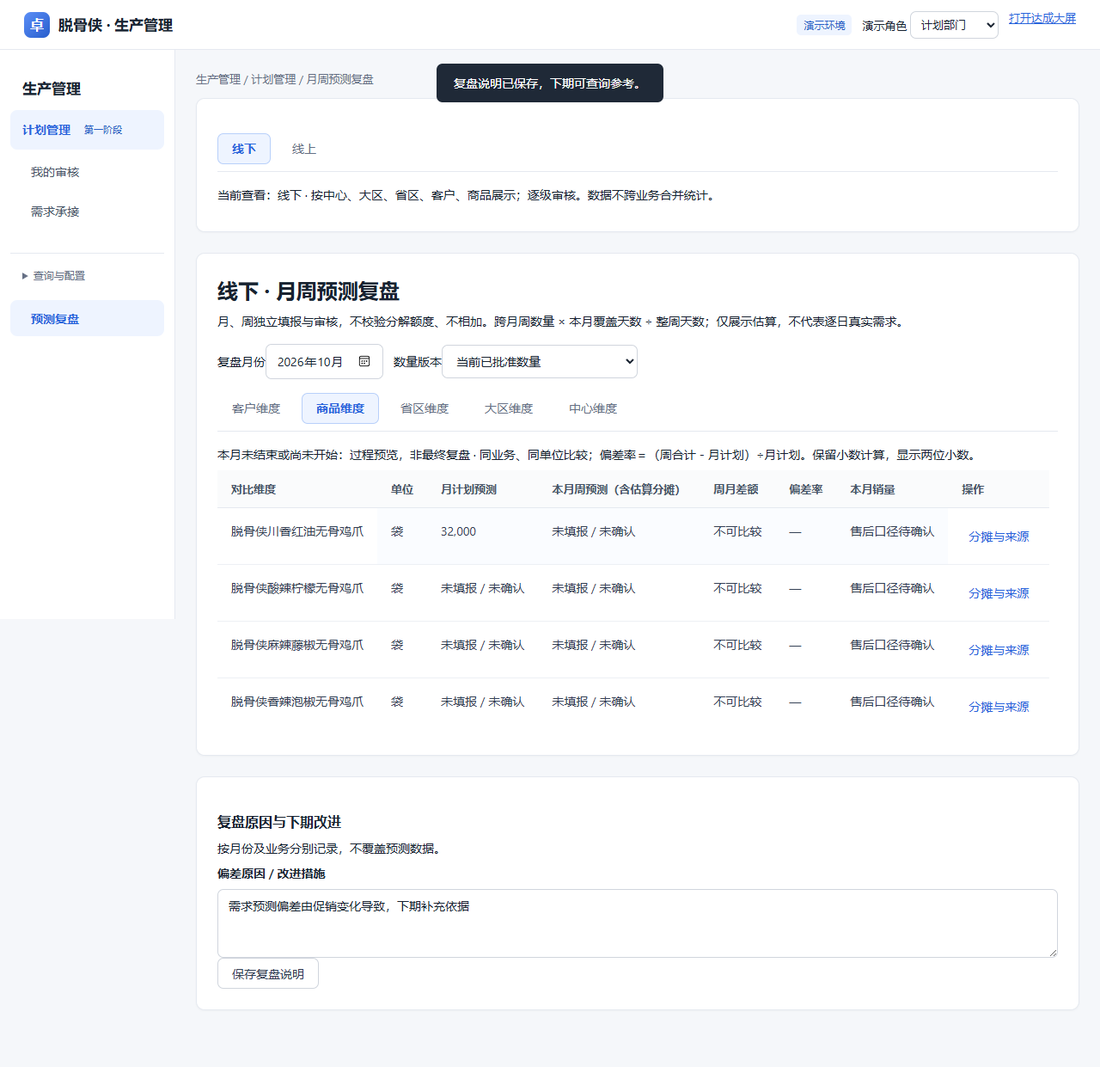
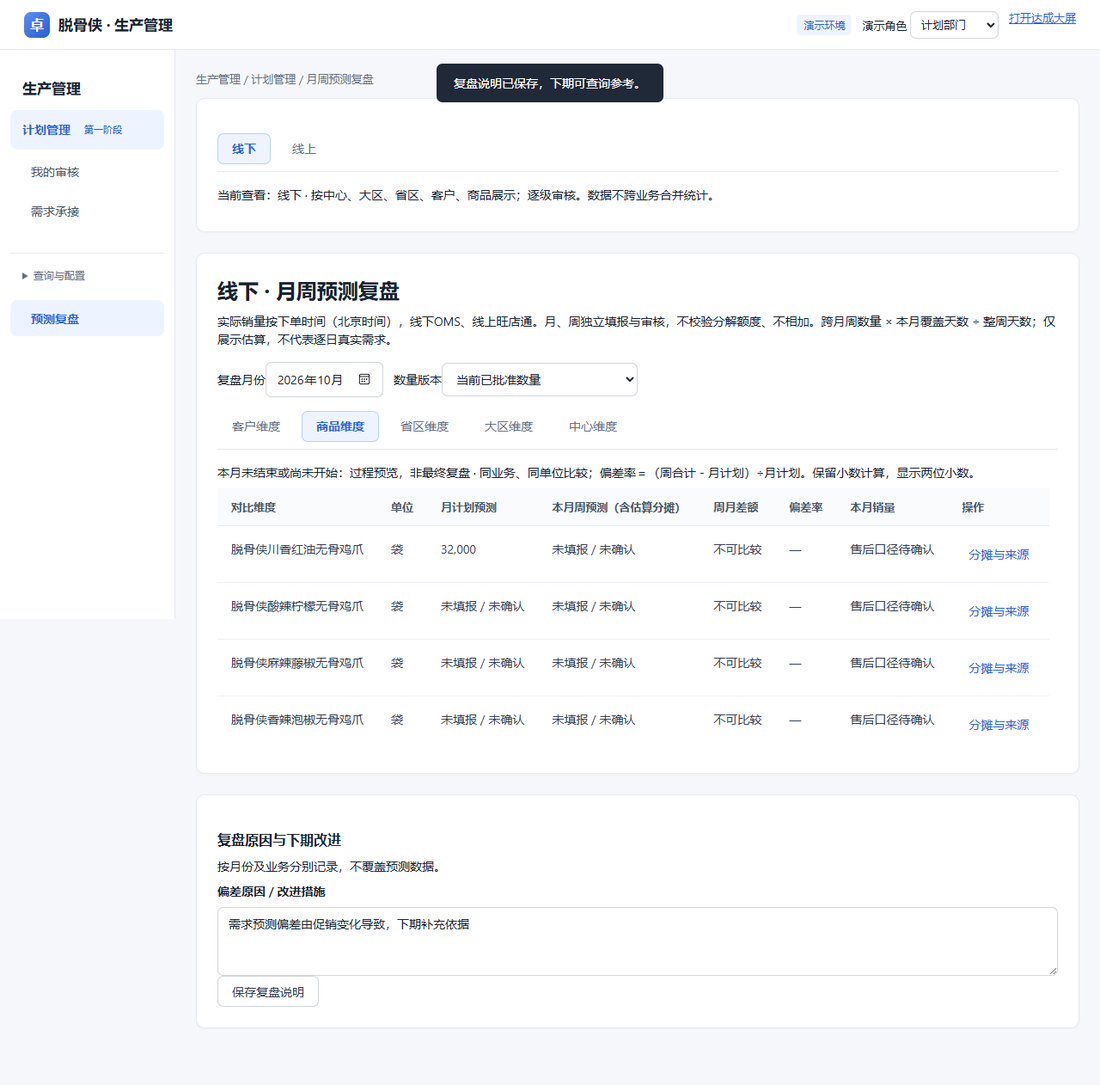
Auto sync 2026-10-12 17:00:13

diff --git a/09-设计与原型/销售计划管理/历史销售查询.js b/09-设计与原型/销售计划管理/历史销售查询.js
@@ -5,14 +5,14 @@
  const date=n=>n.toLocaleDateString('sv-SE');
  function period(start,type){const anchor=new Date((start||date(new Date()))+'T12:00:00'),end=new Date(anchor);let from=new Date(anchor);if(type==='week'){from.setDate(anchor.getDate()-7);end.setDate(anchor.getDate()-1);}else{end.setDate(0);from=new Date(end.getFullYear(),end.getMonth()-(type==='3'?2:0),1,12);}return {from:date(from),to:date(end)};}
  function mount(a,host,context={}){const d=a.data(),business=context.business||a.filters().business,dimensions=business==='online'?['product','channel']:['customer','product','province','area','center'],q={business,dimension:'product',...period(context.start,context.kind==='week'?'week':'month'),center:context.center||'all',area:context.area||'all',province:context.province||'all',customer:'all',channel:context.channel||'all',product:'all'};
-  const allowed=d.orders.filter(o=>o.business===business&&PlanBusiness.canView(d,a.role(),o));
+  const allowed=d.orders.filter(o=>SalesPlan.salesOrder(o)&&o.business===business&&PlanBusiness.canView(d,a.role(),o));
   const option=(xs,val)=>'<option value="all">全部</option>'+[...new Set([...xs,...(val&&val!=='all'?[val]:[])])].filter(Boolean).map(v=>`<option value="${E(v)}" ${v===val?'selected':''}>${E(v)}</option>`).join('');
-  host.innerHTML=`<h2>${business==='online'?'线上':'线下'} · 历史销售查询</h2><p>用于填报参考，不自动改写计划。当前为本机演示订单，真实销量尚未接入。不同单位分开统计；取消订单不计入有效销量，售后回冲规则未确认时不计算净销量。</p><div class="row filters"><label>参考区间<select data-history-preset><option value="month">上月</option><option value="week">上周</option><option value="3">近3个完整月</option><option value="custom">自定义</option></select></label><label>开始日期<input type="date" data-history="from" value="${q.from}"></label><label>结束日期<input type="date" data-history="to" value="${q.to}"></label></div><div class="row filters">${dimensions.map(k=>`<label>${labels[k]}<select data-history="${k}">${option([...new Set(allowed.map(o=>o[k]))].sort(),q[k])}</select></label>`).join('')}<button type="button" data-history-clear>清除范围</button></div><p class="muted">${business==='online'?'线上仅按商品、渠道查询与统计。':'组织、客户和商品筛选共同限定查询范围。'}上月 / 上周以${context.start?'当前计划开始日期':'今天'}为基准。</p><div class="summary-tabs" role="group" aria-label="历史销售统计维度">${dimensions.map(k=>`<button type="button" data-history-dimension="${k}" aria-pressed="${q.dimension===k}">${labels[k]}维度</button>`).join('')}</div><p data-history-error class="error" role="alert"></p><p data-history-range></p><div class="table-wrap"><table><thead><tr><th data-history-heading>商品</th><th>单位</th><th>订单数</th><th>有效订单数量</th><th>记录退货数量</th><th>净销量</th><th>操作</th></tr></thead><tbody data-history-rows></tbody></table></div><section data-history-detail hidden></section>`;
+  host.innerHTML=`<h2>${business==='online'?'线上':'线下'} · 历史销售查询</h2><p>按下单时间（北京时间）统计；线下来源OMS，线上来源旺店通。用于填报参考，不自动改写计划。当前为本机演示订单，真实销量尚未接入。不同单位分开统计；取消订单不计入有效销量，售后回冲规则未确认时不计算净销量。</p><div class="row filters"><label>参考区间<select data-history-preset><option value="month">上月</option><option value="week">上周</option><option value="3">近3个完整月</option><option value="custom">自定义</option></select></label><label>开始日期<input type="date" data-history="from" value="${q.from}"></label><label>结束日期<input type="date" data-history="to" value="${q.to}"></label></div><div class="row filters">${dimensions.map(k=>`<label>${labels[k]}<select data-history="${k}">${option([...new Set(allowed.map(o=>o[k]))].sort(),q[k])}</select></label>`).join('')}<button type="button" data-history-clear>清除范围</button></div><p class="muted">${business==='online'?'线上仅按商品、渠道查询与统计。':'组织、客户和商品筛选共同限定查询范围。'}上月 / 上周以${context.start?'当前计划开始日期':'今天'}为基准。</p><div class="summary-tabs" role="group" aria-label="历史销售统计维度">${dimensions.map(k=>`<button type="button" data-history-dimension="${k}" aria-pressed="${q.dimension===k}">${labels[k]}维度</button>`).join('')}</div><p data-history-error class="error" role="alert"></p><p data-history-range></p><div class="table-wrap"><table><thead><tr><th data-history-heading>商品</th><th>单位</th><th>订单数</th><th>有效订单数量</th><th>记录退货数量</th><th>净销量</th><th>操作</th></tr></thead><tbody data-history-rows></tbody></table></div><section data-history-detail hidden></section>`;
   host.querySelector('[data-history-preset]').value=context.kind==='week'?'week':'month';
-  function paint(){const err=host.querySelector('[data-history-error]');err.textContent=!q.from||!q.to||q.from>q.to?'请填写有效的日期区间，结束日期不能早于开始日期。':'';const orders=err.textContent?[]:allowed.filter(o=>o.date>=q.from&&o.date<=q.to&&dimensions.every(k=>q[k]==='all'||o[k]===q[k]));const groups=new Map();orders.forEach(o=>{const value=o[q.dimension]||'未维护'+labels[q.dimension],key=JSON.stringify([value,o.unit]),g=groups.get(key)||{value,unit:o.unit,orders:[],qty:0,returns:0};g.orders.push(o);if(o.status!=='取消'){g.qty+=Number(o.qty)||0;g.returns+=Number(o.returned)||0;}groups.set(key,g);});host.querySelector('[data-history-heading]').textContent=labels[q.dimension];host.querySelector('[data-history-range]').textContent=`查询范围：${q.from} 至 ${q.to} · ${business==='online'?'线上':'线下'} · ${orders.length} 条已同步订单记录（不代表数据完整）`;
+  function paint(){const err=host.querySelector('[data-history-error]');err.textContent=!q.from||!q.to||q.from>q.to?'请填写有效的日期区间，结束日期不能早于开始日期。':'';const orders=err.textContent?[]:allowed.filter(o=>SalesPlan.orderDay(o)>=q.from&&SalesPlan.orderDay(o)<=q.to&&dimensions.every(k=>q[k]==='all'||o[k]===q[k]));const groups=new Map();orders.forEach(o=>{const value=o[q.dimension]||'未维护'+labels[q.dimension],key=JSON.stringify([value,o.unit]),g=groups.get(key)||{value,unit:o.unit,orders:[],qty:0,returns:0};g.orders.push(o);if(o.status!=='取消'){g.qty+=Number(o.qty)||0;g.returns+=Number(o.returned)||0;}groups.set(key,g);});host.querySelector('[data-history-heading]').textContent=labels[q.dimension];host.querySelector('[data-history-range]').textContent=`查询范围：${q.from} 至 ${q.to} · ${business==='online'?'线上':'线下'} · ${orders.length} 条已同步订单记录（不代表数据完整）`;
    host.querySelectorAll('[data-history-dimension]').forEach(b=>b.setAttribute('aria-pressed',String(b.dataset.historyDimension===q.dimension)));
    host.querySelector('[data-history-rows]').innerHTML=[...groups.values()].map((g,i)=>`<tr><td>${E(q.dimension==='product'?(d.products.find(p=>p.id===g.value)?.name||g.value):g.value)}</td><td>${E(g.unit)}</td><td>${g.orders.length}</td><td>${g.qty}</td><td>${g.returns}</td><td>${d.rules.returns==='net'?g.qty-g.returns:d.rules.returns==='gross'?g.qty+'（不回冲退货）':'售后回冲规则待确认'}</td><td><button type="button" data-history-source="${i}">订单明细</button></td></tr>`).join('')||'<tr><td colspan="7" class="empty">此范围没有同步销售记录，不代表销量为零。请调整区间或筛选，或核对数据同步。</td></tr>';
-   const detail=host.querySelector('[data-history-detail]');detail.hidden=true;host.querySelectorAll('[data-history-source]').forEach(b=>b.onclick=()=>{const g=[...groups.values()][Number(b.dataset.historySource)];detail.hidden=false;detail.innerHTML='<h3>销售订单来源明细</h3><button type="button" data-history-back>收起明细</button><div class="table-wrap"><table><thead><tr><th>订单 / 来源</th><th>日期</th>'+(business==='online'?'<th>渠道</th>':'<th>客户</th><th>中心 / 大区 / 省区</th>')+'<th>商品</th><th>原始数量</th><th>退货</th><th>状态</th></tr></thead><tbody>'+g.orders.map(o=>`<tr><td>${E(o.id)} / ${E(o.source)}</td><td>${E(o.date)}</td>${business==='online'?`<td>${E(o.channel||'渠道未维护')}</td>`:`<td>${E(o.customer||'客户未维护')}</td><td>${E([o.center,o.area,o.province].filter(Boolean).join(' / ')||'组织未维护')}</td>`}<td>${E(d.products.find(p=>p.id===o.product)?.name||o.product)}</td><td>${E(o.qty)} ${E(o.unit)}</td><td>${E(o.returned)}</td><td>${E(o.status)}</td></tr>`).join('')+'</tbody></table></div>';detail.querySelector('[data-history-back]').onclick=()=>{detail.hidden=true;b.focus();};});
+   const detail=host.querySelector('[data-history-detail]');detail.hidden=true;host.querySelectorAll('[data-history-source]').forEach(b=>b.onclick=()=>{const g=[...groups.values()][Number(b.dataset.historySource)];detail.hidden=false;detail.innerHTML='<h3>销售订单来源明细</h3><button type="button" data-history-back>收起明细</button><div class="table-wrap"><table><thead><tr><th>订单 / 来源</th><th>下单日期（北京时间）</th>'+(business==='online'?'<th>渠道</th>':'<th>客户</th><th>中心 / 大区 / 省区</th>')+'<th>商品</th><th>原始数量</th><th>退货</th><th>状态</th></tr></thead><tbody>'+g.orders.map(o=>`<tr><td>${E(o.id)} / ${E(o.source)}</td><td>${E(SalesPlan.orderDay(o))}</td>${business==='online'?`<td>${E(o.channel||'渠道未维护')}</td>`:`<td>${E(o.customer||'客户未维护')}</td><td>${E([o.center,o.area,o.province].filter(Boolean).join(' / ')||'组织未维护')}</td>`}<td>${E(d.products.find(p=>p.id===o.product)?.name||o.product)}</td><td>${E(o.qty)} ${E(o.unit)}</td><td>${E(o.returned)}</td><td>${E(o.status)}</td></tr>`).join('')+'</tbody></table></div>';detail.querySelector('[data-history-back]').onclick=()=>{detail.hidden=true;b.focus();};});
   }
   host.querySelectorAll('[data-history]').forEach(el=>el.onchange=()=>{q[el.dataset.history]=el.value;if(['from','to'].includes(el.dataset.history))host.querySelector('[data-history-preset]').value='custom';paint();});host.querySelector('[data-history-preset]').onchange=e=>{if(e.target.value!=='custom'){Object.assign(q,period(context.start,e.target.value));for(const k of ['from','to'])host.querySelector(`[data-history="${k}"]`).value=q[k];paint();}};host.querySelector('[data-history-clear]').onclick=()=>{for(const k of dimensions){q[k]='all';host.querySelector(`[data-history="${k}"]`).value='all';}paint();};host.querySelectorAll('[data-history-dimension]').forEach(b=>b.onclick=()=>{q.dimension=b.dataset.historyDimension;paint();});paint();
  }

diff --git a/09-设计与原型/销售计划管理/月周预测复盘.js b/09-设计与原型/销售计划管理/月周预测复盘.js
@@ -2,10 +2,10 @@
  const E=v=>String(v??'').replace(/[&<>"']/g,c=>({'&':'&amp;','<':'&lt;','>':'&gt;','"':'&quot;',"'":'&#39;'}[c]));
  const day=s=>Date.parse(s+'T00:00:00Z')/86400000;
  function share(p,month){const start=day(month+'-01'),end=Date.UTC(Number(month.slice(0,4)),Number(month.slice(5,7)),0)/86400000;const total=day(p.end)-day(p.start)+1,overlap=Math.max(0,Math.min(day(p.end),end)-Math.max(day(p.start),start)+1);return total>0?overlap/total:0;}
- function groups(d,role,business,month,dimension,basis='approved'){const map=new Map(),key=p=>JSON.stringify([p[dimension]||'未维护',p.unit]),get=p=>{const k=key(p);if(!map.has(k))map.set(k,{name:p[dimension]||'未维护',unit:p.unit,monthly:0,weekly:0,months:[],weeks:[],orders:[],actual:0});return map.get(k);};d.plans.filter(p=>p.business===business&&PlanBusiness.canView(d,role,p)&&!p.rejected&&p.stage>=SalesPlan.chain(p).length).forEach(p=>{const fraction=p.kind==='month'?(p.start.slice(0,7)===month?1:0):share(p,month);if(!fraction)return;const g=get(p),qty=basis==='original'?(p.versions?.[0]?.qty??p.qty):p.qty;if(p.kind==='month'){g.monthly+=qty;g.months.push(p);}else{g.weekly+=qty*fraction;g.weeks.push({p,fraction,qty});}});d.orders.filter(o=>o.business===business&&PlanBusiness.canView(d,role,o)&&o.date.slice(0,7)===month).forEach(o=>{const g=get(o);g.orders.push(o);if(o.status!=='取消')g.actual+=Number(o.qty)-(d.rules.returns==='net'?Number(o.returned||0):0);});return [...map.values()];}
+ function groups(d,role,business,month,dimension,basis='approved'){const map=new Map(),key=p=>JSON.stringify([p[dimension]||'未维护',p.unit]),get=p=>{const k=key(p);if(!map.has(k))map.set(k,{name:p[dimension]||'未维护',unit:p.unit,monthly:0,weekly:0,months:[],weeks:[],orders:[],actual:0});return map.get(k);};d.plans.filter(p=>p.business===business&&PlanBusiness.canView(d,role,p)&&!p.rejected&&p.stage>=SalesPlan.chain(p).length).forEach(p=>{const fraction=p.kind==='month'?(p.start.slice(0,7)===month?1:0):share(p,month);if(!fraction)return;const g=get(p),qty=basis==='original'?(p.versions?.[0]?.qty??p.qty):p.qty;if(p.kind==='month'){g.monthly+=qty;g.months.push(p);}else{g.weekly+=qty*fraction;g.weeks.push({p,fraction,qty});}});d.orders.filter(o=>SalesPlan.salesOrder(o)&&o.business===business&&PlanBusiness.canView(d,role,o)&&SalesPlan.orderDay(o).slice(0,7)===month).forEach(o=>{const g=get(o);g.orders.push(o);if(o.status!=='取消')g.actual+=Number(o.qty)-(d.rules.returns==='net'?Number(o.returned||0):0);});return [...map.values()];}
  const fmt=n=>Number(n).toLocaleString('zh-CN',{maximumFractionDigits:2});
  function table(d,gs){return '<div class="table-wrap"><table><thead><tr><th>对比维度</th><th>单位</th><th>月计划预测</th><th>本月周预测（含估算分摊）</th><th>周月差额</th><th>偏差率</th><th>本月销量</th><th>操作</th></tr></thead><tbody>'+gs.map((g,i)=>{const comparable=g.months.length&&g.weeks.length;return `<tr><td>${E(d.products.find(p=>p.id===g.name)?.name||g.name)}</td><td>${E(g.unit)}</td><td>${g.months.length?fmt(g.monthly):'未填报 / 未确认'}</td><td>${g.weeks.length?fmt(g.weekly):'未填报 / 未确认'}</td><td>${comparable?fmt(g.weekly-g.monthly):'不可比较'}</td><td>${comparable&&g.monthly?fmt((g.weekly-g.monthly)/g.monthly*100)+'%':'—'}</td><td>${!g.orders.length?'无同步记录':d.rules.returns==='pending'?'售后口径待确认':fmt(g.actual)+(d.rules.returns==='gross'?'（不回冲）':'')}</td><td><button data-recap-source="${i}">分摊与来源</button></td></tr>`;}).join('')+' '+(!gs.length?'<tr><td colspan="8" class="empty">当前月份暂无已确认计划或销售记录，请选择其他月份。</td></tr>':'')+'</tbody></table></div>';}
- function mount(a,host,month){let dimension='product',basis='approved';const d=a.data(),f=a.filters();host.innerHTML=`<h1>月周预测复盘</h1><p>月、周独立填报与审核，不校验分解额度、不相加。跨月周数量 × 本月覆盖天数 ÷ 整周天数；仅展示估算，不代表逐日真实需求。</p><div class="row"><label>复盘月份<input id="recapMonth" type="month" value="${E(month)}"></label><label>数量版本<select id="recapBasis"><option value="approved">当前已批准数量</option><option value="original">原始填报数量（已确认计划）</option></select></label></div><div class="summary-tabs" role="group">${(f.business==='online'?['product','channel']:['customer','product','province','area','center']).map(k=>`<button data-recap-dimension="${k}" aria-pressed="${dimension===k}">${({customer:'客户',product:'商品',province:'省区',area:'大区',center:'中心',channel:'渠道'})[k]}维度</button>`).join('')}</div><p id="recapStatus"></p><div id="recapTable"></div>`;
+ function mount(a,host,month){let dimension='product',basis='approved';const d=a.data(),f=a.filters();host.innerHTML=`<h1>月周预测复盘</h1><p>实际销量按下单时间（北京时间），线下OMS、线上旺店通。月、周独立填报与审核，不校验分解额度、不相加。跨月周数量 × 本月覆盖天数 ÷ 整周天数；仅展示估算，不代表逐日真实需求。</p><div class="row"><label>复盘月份<input id="recapMonth" type="month" value="${E(month)}"></label><label>数量版本<select id="recapBasis"><option value="approved">当前已批准数量</option><option value="original">原始填报数量（已确认计划）</option></select></label></div><div class="summary-tabs" role="group">${(f.business==='online'?['product','channel']:['customer','product','province','area','center']).map(k=>`<button data-recap-dimension="${k}" aria-pressed="${dimension===k}">${({customer:'客户',product:'商品',province:'省区',area:'大区',center:'中心',channel:'渠道'})[k]}维度</button>`).join('')}</div><p id="recapStatus"></p><div id="recapTable"></div>`;
   const paint=()=>{const month=host.querySelector('#recapMonth').value;if(!/^\d{4}-\d{2}$/.test(month)){host.querySelector('#recapTable').textContent='请选择有效月份。';return;}const now=new Intl.DateTimeFormat('sv-SE',{timeZone:'Asia/Shanghai'}).format(new Date()).slice(0,7);host.querySelector('#recapStatus').textContent=(month<now?'已结束月份复盘':'本月未结束或尚未开始：过程预览，非最终复盘')+' · 同业务、同单位比较；偏差率＝（周合计－月计划）÷月计划。保留小数计算，显示两位小数。';const gs=groups(d,a.role(),f.business,month,dimension,basis);host.querySelectorAll('[data-recap-dimension]').forEach(b=>b.setAttribute('aria-pressed',String(b.dataset.recapDimension===dimension)));host.querySelector('#recapTable').innerHTML=table(d,gs);host.querySelectorAll('[data-recap-source]').forEach(b=>b.onclick=()=>{const g=gs[Number(b.dataset.recapSource)];a.modal('月周预测 · 分摊来源',`<p>${E(month)} · ${E(g.name)} · ${E(g.unit)}。分摊为估算，不修改原计划。</p><div class="table-wrap"><table><thead><tr><th>周计划</th><th>周期</th><th>整周预测</th><th>本月覆盖 / 周天数</th><th>本月分摊</th></tr></thead><tbody>${g.weeks.map(w=>`<tr><td>${E(w.p.id)}</td><td>${w.p.start} 至 ${w.p.end}</td><td>${w.qty}</td><td>${Math.round(w.fraction*(day(w.p.end)-day(w.p.start)+1))} / ${day(w.p.end)-day(w.p.start)+1}</td><td>${fmt(w.qty*w.fraction)}（估算）</td></tr>`).join('')||'<tr><td colspan="5">无已确认周计划</td></tr>'}</tbody></table></div><h3>计划版本与审核记录</h3>${a.planTable([...g.months,...g.weeks.map(w=>w.p)])}`);});};host.querySelector('#recapMonth').onchange=paint;host.querySelector('#recapBasis').onchange=e=>{basis=e.target.value;paint();};host.querySelectorAll('[data-recap-dimension]').forEach(b=>b.onclick=()=>{dimension=b.dataset.recapDimension;paint();});paint();
  }
  function decorate(a){if(document.body.dataset.page==='screen')return;const b=document.createElement('button');b.textContent='月周预测复盘';b.onclick=()=>a.setView('monthRecap');b.setAttribute('aria-current',String(a.view()==='monthRecap'));document.querySelector('nav').append(b);if(a.view()==='monthRecap'){document.getElementById('content').innerHTML='<section class="card" id="monthRecap"></section>';mount(a,document.getElementById('monthRecap'),a.filters().cycle.slice(0,7));}}

diff --git a/09-设计与原型/销售计划管理/销售计划体验.js b/09-设计与原型/销售计划管理/销售计划体验.js
@@ -22,8 +22,8 @@
   function org(){document.getElementById('batchOrg').innerHTML=business==='online'?`<label class="field">线上渠道<select name="channel">${option(SalesPlan.channels,x.channel)}</select></label>`:`<label class="field">销售中心<select name="center">${option(SalesPlan.centers,x.center)}</select></label><label class="field">大区<select name="area">${option(Object.keys(SalesPlan.areas),x.area)}</select></label><label class="field">省区<select name="province">${option(SalesPlan.areas[x.area],x.province)}</select></label><label class="field">销售负责人<input readonly value="${E((SalesPlan.owners[x.province]||'待分配负责人'))}"></label>${business==='offline'?`<label class="field">客户<select name="customer" required>${option(SalesPlan.customers.filter(c=>c.province===x.province).map(c=>c.name),x.customer)}</select></label>`:''}`;if(business==='offline'){f.area.onchange=()=>{sync();x.province=SalesPlan.areas[x.area][0];x.customer='';org();sync();store();drawLines();};f.province.onchange=()=>{sync();x.customer='';org();sync();store();drawLines();};}sync();if(f.elements.customer)f.customer.onchange=()=>{sync();store();drawLines();};if(f.elements.channel)f.channel.onchange=()=>{sync();store();drawLines();};}
   const effective=p=>p.enabled&&(p.scope==='全部'||p.scope===(business==='online'?'线上':'线下'))&&p.from<=x.start&&(!p.to||p.to>=x.end);
   let range={from:'',to:''};
-  function reference(line){if(!range.from||!range.to)return null;const orders=d.orders.filter(o=>PlanBusiness.canView(d,role,o)&&o.business===business&&o.product===line.product&&o.unit===line.unit&&o.date>=range.from&&o.date<=range.to&&(business==='online'?o.channel===x.channel:o.center===x.center&&o.area===x.area&&o.province===x.province&&(document.getElementById('referenceScope').value==='province'||o.customer===(line.customer||x.customer))));return orders.length?orders:null;}
-  function drawLines(){const available=d.products.filter(effective);document.getElementById('lines').innerHTML=x.lines.map((l,i)=>{const ref=reference(l),n=ref?.reduce((s,o)=>s+(o.status==='取消'?0:o.qty),0);return `<section class="batch-line">${business==='offline'?`<label class="field">本行客户<select data-line="${i}" data-key="customer">${option(SalesPlan.customers.filter(c=>c.province===x.province).map(c=>c.name),l.customer||x.customer)}</select></label>`:''}<div class="grid"><label class="field">商品 ${i+1}<select data-line="${i}" data-key="product">${available.map(p=>`<option value="${E(p.id)}" ${p.id===l.product?'selected':''}>${E(p.name)}</option>`).join('')}</select></label><label class="field">计划数量<input data-line="${i}" data-key="qty" type="number" min="1" step="1" value="${E(l.qty)}" required></label><label class="field">单位<select data-line="${i}" data-key="unit">${option(units,l.unit)}</select></label><div><p>参考销量：<strong>${ref?n+' '+l.unit:'待同步'}</strong></p>${ref?`<button type="button" data-use="${i}">引用参考数量</button><details><summary>趋势与订单明细</summary><p>按日展示有效订单原始数量；取消单不计入，售后回冲待业务确认。</p>${ref.map(o=>`<p>${o.date} · ${E(o.id)} · ${o.status==='取消'?0:o.qty} ${o.unit} · ${E(o.status)}</p><div class="bar"><i style="width:${n?Math.min(100,o.qty/n*100):0}%"></i></div>`).join('')}</details>`:'<small>无同步记录，未将缺失视为零销量。</small>'}</div></div><button type="button" data-remove="${i}" ${x.lines.length===1?'disabled':''}>移除商品 ${i+1}</button><div class="error line-error" id="lineError${i}" role="alert"></div></section>`;}).join('');document.querySelectorAll('[data-line]').forEach(e=>{const i=Number(e.dataset.line);if(e.dataset.key==='product'&&!available.some(p=>p.id===x.lines[i].product))e.value='';e.oninput=()=>{x.lines[i][e.dataset.key]=e.value;store();};e.onchange=()=>{x.lines[i][e.dataset.key]=e.value;store();if(e.dataset.key!=='qty')drawLines();};});document.querySelectorAll('[data-remove]').forEach(b=>b.onclick=()=>{x.lines.splice(Number(b.dataset.remove),1);store();drawLines();});document.querySelectorAll('[data-use]').forEach(b=>b.onclick=()=>{const i=Number(b.dataset.use);x.lines[i].qty=reference(x.lines[i]).reduce((s,o)=>s+(o.status==='取消'?0:o.qty),0);store();drawLines();});}
+  function reference(line){if(!range.from||!range.to)return null;const orders=d.orders.filter(o=>PlanBusiness.canView(d,role,o)&&SalesPlan.salesOrder(o)&&o.business===business&&o.product===line.product&&o.unit===line.unit&&SalesPlan.orderDay(o)>=range.from&&SalesPlan.orderDay(o)<=range.to&&(business==='online'?o.channel===x.channel:o.center===x.center&&o.area===x.area&&o.province===x.province&&(document.getElementById('referenceScope').value==='province'||o.customer===(line.customer||x.customer))));return orders.length?orders:null;}
+  function drawLines(){const available=d.products.filter(effective);document.getElementById('lines').innerHTML=x.lines.map((l,i)=>{const ref=reference(l),n=ref?.reduce((s,o)=>s+(o.status==='取消'?0:o.qty),0);return `<section class="batch-line">${business==='offline'?`<label class="field">本行客户<select data-line="${i}" data-key="customer">${option(SalesPlan.customers.filter(c=>c.province===x.province).map(c=>c.name),l.customer||x.customer)}</select></label>`:''}<div class="grid"><label class="field">商品 ${i+1}<select data-line="${i}" data-key="product">${available.map(p=>`<option value="${E(p.id)}" ${p.id===l.product?'selected':''}>${E(p.name)}</option>`).join('')}</select></label><label class="field">计划数量<input data-line="${i}" data-key="qty" type="number" min="1" step="1" value="${E(l.qty)}" required></label><label class="field">单位<select data-line="${i}" data-key="unit">${option(units,l.unit)}</select></label><div><p>参考销量：<strong>${ref?n+' '+l.unit:'待同步'}</strong></p>${ref?`<button type="button" data-use="${i}">引用参考数量</button><details><summary>趋势与订单明细</summary><p>按日展示有效订单原始数量；取消单不计入，售后回冲待业务确认。</p>${ref.map(o=>`<p>${SalesPlan.orderDay(o)} · ${E(o.id)} · ${o.status==='取消'?0:o.qty} ${o.unit} · ${E(o.status)}</p><div class="bar"><i style="width:${n?Math.min(100,o.qty/n*100):0}%"></i></div>`).join('')}</details>`:'<small>无同步记录，未将缺失视为零销量。</small>'}</div></div><button type="button" data-remove="${i}" ${x.lines.length===1?'disabled':''}>移除商品 ${i+1}</button><div class="error line-error" id="lineError${i}" role="alert"></div></section>`;}).join('');document.querySelectorAll('[data-line]').forEach(e=>{const i=Number(e.dataset.line);if(e.dataset.key==='product'&&!available.some(p=>p.id===x.lines[i].product))e.value='';e.oninput=()=>{x.lines[i][e.dataset.key]=e.value;store();};e.onchange=()=>{x.lines[i][e.dataset.key]=e.value;store();if(e.dataset.key!=='qty')drawLines();};});document.querySelectorAll('[data-remove]').forEach(b=>b.onclick=()=>{x.lines.splice(Number(b.dataset.remove),1);store();drawLines();});document.querySelectorAll('[data-use]').forEach(b=>b.onclick=()=>{const i=Number(b.dataset.use);x.lines[i].qty=reference(x.lines[i]).reduce((s,o)=>s+(o.status==='取消'?0:o.qty),0);store();drawLines();});}
   function deadline(){document.getElementById('deadline').textContent=windowText(d,x.kind)+` · 当前计划 ${x.start} 至 ${x.end}`;}
   f.kind.innerHTML=`<option value="${x.kind}">${x.kind==='month'?'月度计划':'周计划'}</option>`;f.kind.value=x.kind;f.start.value=x.start;f.end.value=x.end;f.note.value=x.note;org();drawLines();deadline();
   f.addEventListener('input',()=>{sync();store();});f.kind.onchange=()=>{sync();setCycle();f.start.value=x.start;f.end.value=x.end;org();store();drawLines();deadline();};for(const n of ['start','end'])f[n].onchange=()=>{sync();store();drawLines();deadline();};

diff --git a/09-设计与原型/销售计划管理/全流程状态演示.js b/09-设计与原型/销售计划管理/全流程状态演示.js
@@ -8,7 +8,7 @@
   for(const kind of ['month','week'])for(const business of ['offline','online'])for(const status of ['待计划部门审核','已通过','已驳回']){const p=make('普通数量调整'+status,kind,business,business==='online'?1:3,{product:'SKU002'}),a={id:PREFIX+'A-'+p.id,plan:p.id,base:1,type:'quantity',before:1000,after:1100,reason:'演示：预测数量修正，不走OA',approver:'计划部门',status,at:stamp,attachment:'演示需求说明.pdf'};if(status!=='待计划部门审核'){Object.assign(a,{reviewAt:stamp,reviewBy:'计划部门',opinion:'演示：'+(status==='已通过'?'依据充分，同意':'依据不足，请补充')});p.history.push({at:stamp,by:'计划部门',action:'计划部门数量调整'+status,opinion:a.opinion,qty:status==='已通过'?1100:1000});}if(status==='已通过'){p.qty=1100;p.version=2;p.versions.push({version:2,qty:1100,reason:a.reason});}d.adjustments.push(a);Object.assign(records.at(-1),{role:'计划部门',view:'adjustments'});}
   for(const business of ['offline','online']){const route=business==='online'?['丹总']:['大区审核','中心审核','严总'];for(const status of [...route,'已通过','已驳回']){const p=make('开始前内容调整'+status,'month',business,route.length,{start:'2026-11-01',end:'2026-11-30',product:'SKU003'}),content=PlanBusiness.snapshot(p),i=route.indexOf(status),a={id:PREFIX+'C-'+p.id,plan:p.id,type:'before-start',base:1,baseStage:p.stage,baseRejected:false,before:p.qty,after:p.qty+100,beforeContent:content,afterContent:{...content,qty:p.qty+100,note:'演示：促销依据补充'},route,stage:i<0?route.length-1:i,approver:i<0?route.at(-1):status,status:i<0?status:'待OA审批',reason:'演示：开始前内容变更，保留原始版本',at:stamp,approvals:route.slice(0,i<0?route.length-1:i).map(by=>({by,at:stamp,result:'通过',opinion:'演示：同意'}))};if(i<0){a.reviewAt=stamp;a.opinion='演示：'+status;a.approvals.push({by:route.at(-1),at:stamp,result:status==='已通过'?'通过':'驳回',opinion:a.opinion});}if(status==='已通过'){Object.assign(p,a.afterContent);p.version=2;p.versions.push({version:2,qty:p.qty,reason:a.reason});}d.adjustments.push(a);Object.assign(records.at(-1),{role:a.approver,view:'adjustments'});}}
   for(const center of SalesPlan.centers)for(const [area,provinces]of Object.entries(SalesPlan.areas)){const province=provinces[0],customer=SalesPlan.customers.find(c=>c.province===province)?.name||'演示客户-'+province;if(!SalesPlan.customers.some(c=>c.name===customer))SalesPlan.customers.push({name:customer,province,demo:true});make(center+' / '+area+'已确认','month','offline',3,{center,area,province,customer,product:'SKU004'});}
-  for(const business of ['offline','online']){const p=make('历史归档及复盘','month',business,business==='online'?1:3,{start:'2026-09-01',end:'2026-09-30',archived:true}),week=make('跨月周分摊复盘','week',business,business==='online'?1:3,{start:'2026-09-28',end:'2026-10-04',qty:700});d.orders.push({id:PREFIX+'ORDER-'+p.id,business,date:'2026-09-15',center:p.center,area:p.area,province:p.province,customer:p.customer,channel:p.channel,product:p.product,unit:p.unit,qty:850,returned:20,status:'有效',source:'纯演示销量',demo:true});d.recapReasons[business+':2026-09']??={text:'纯演示复盘：促销推迟导致月预测偏差；下期补充活动依据。',by:'计划部门',at:stamp,demo:true};Object.assign(records.find(v=>v.id===p.id),{view:'monthRecap',role:'计划部门'});Object.assign(records.find(v=>v.id===week.id),{view:'monthRecap',role:'计划部门'});}
+  for(const business of ['offline','online']){const p=make('历史归档及复盘','month',business,business==='online'?1:3,{start:'2026-09-01',end:'2026-09-30',archived:true}),week=make('跨月周分摊复盘','week',business,business==='online'?1:3,{start:'2026-09-28',end:'2026-10-04',qty:700});d.orders.push({id:PREFIX+'ORDER-'+p.id,business,date:'2026-09-15',center:p.center,area:p.area,province:p.province,customer:p.customer,channel:p.channel,product:p.product,unit:p.unit,qty:850,returned:20,status:'有效',source:business==='online'?'旺店通':'OMS',platform:business==='online'?'旺店通':'OMS',demo:true});d.recapReasons[business+':2026-09']??={text:'纯演示复盘：促销推迟导致月预测偏差；下期补充活动依据。',by:'计划部门',at:stamp,demo:true};Object.assign(records.find(v=>v.id===p.id),{view:'monthRecap',role:'计划部门'});Object.assign(records.find(v=>v.id===week.id),{view:'monthRecap',role:'计划部门'});}
   for(const unit of ['箱','包','袋','盒','罐','支'])make('单位展示-'+unit,'month','online',1,{channel:'京东',product:'SKU005',unit,qty:100});
   for(const customer of ['演示无需求客户','演示未填报客户'])if(!SalesPlan.customers.some(c=>c.name===customer))SalesPlan.customers.push({name:customer,province:'上海',demo:true});d.noDemand.push({province:'上海',customer:'演示无需求客户',kind:'month',period:'2026-10',reason:'纯演示：本期无需求，区别于未填报',by:'省区填报',at:stamp,demo:true});
   records.forEach((v,i)=>d.notifications.push({id:PREFIX+'N-'+v.id,to:v.role,title:'演示节点：'+v.name,text:v.id,business:v.business,at:stamp,read:i%3===0,demo:true}));d.workflowScenarioVersion=1;return true;

diff --git a/09-设计与原型/销售计划管理/计划流程工作台.js b/09-设计与原型/销售计划管理/计划流程工作台.js
@@ -6,7 +6,7 @@
  const completed=p=>!p.rejected&&p.stage>=SalesPlan.chain(p).length;
  function initialize(d){d.acceptances??={};d.acceptanceHistory??=[];d.fulfillment??=[];d.recapReasons??={};d.workflowSettings??={anomalyPercent:30};}
  function sheets(xs){const map=new Map();xs.forEach(p=>{const k=sheetKey(p);if(!map.has(k))map.set(k,{key:k,rows:[],name:p.business==='online'?p.channel:p.center+' / '+p.province,start:p.start,end:p.end});map.get(k).rows.push(p);});return [...map.values()];}
- function issue(d,p){const out=[],previous=d.orders.filter(o=>o.business===p.business&&o.product===p.product&&o.unit===p.unit&&o.date<p.start&&o.date>=previousStart(p.start)&&(p.business==='online'?o.channel===p.channel:o.center===p.center&&o.province===p.province&&o.customer===p.customer)),qty=previous.reduce((s,o)=>s+(o.status==='取消'?0:Number(o.qty)),0);if(!previous.length)out.push('上期销售记录缺失');else if(qty>0&&Math.abs(p.qty-qty)/qty*100>=d.workflowSettings.anomalyPercent)out.push('较上期有效订单数量偏差≥'+d.workflowSettings.anomalyPercent+'%');if(!p.note)out.push('未填写需求依据');if(d.plans.some(q=>q.id!==p.id&&sheetKey(q)===sheetKey(p)&&q.customer===p.customer&&q.product===p.product&&q.unit===p.unit&&!q.archived))out.push('同周期客户/商品明细重复');return out;}
+ function issue(d,p){const out=[],previous=d.orders.filter(o=>SalesPlan.salesOrder(o)&&o.business===p.business&&o.product===p.product&&o.unit===p.unit&&SalesPlan.orderDay(o)<p.start&&SalesPlan.orderDay(o)>=previousStart(p.start)&&(p.business==='online'?o.channel===p.channel:o.center===p.center&&o.province===p.province&&o.customer===p.customer)),qty=previous.reduce((s,o)=>s+(o.status==='取消'?0:Number(o.qty)),0);if(!previous.length)out.push('上期销售记录缺失');else if(qty>0&&Math.abs(p.qty-qty)/qty*100>=d.workflowSettings.anomalyPercent)out.push('较上期有效订单数量偏差≥'+d.workflowSettings.anomalyPercent+'%');if(!p.note)out.push('未填写需求依据');if(d.plans.some(q=>q.id!==p.id&&sheetKey(q)===sheetKey(p)&&q.customer===p.customer&&q.product===p.product&&q.unit===p.unit&&!q.archived))out.push('同周期客户/商品明细重复');return out;}
  function previousStart(start){const n=new Date(start+'T12:00:00Z');return new Date(Date.UTC(n.getUTCFullYear(),n.getUTCMonth()-1,1)).toISOString().slice(0,10);}
  function state(g){if(g.rows.some(p=>p.rejected))return '待修改';if(g.rows.every(p=>p.stage<0))return '草稿';if(g.rows.every(completed))return '销售已确认';return '审核中';}
  function planSheets(a){const d=a.data(),content=document.getElementById('content'),gs=sheets(d.plans.filter(p=>{const f=a.filters();return (!f.demoCase||p.id===f.demoCase)&&PlanBusiness.canView(d,a.role(),p)&&p.business===f.business&&p.kind===f.kind&&(f.kind==='month'?p.start.slice(0,7)===f.cycle:p.start===f.cycle)&&['center','area','province','channel'].every(k=>f[k]==='all'||p[k]===f[k]);})),role=a.role();content.querySelectorAll(':scope>.card:not(.filters):not(.business-switch),:scope>.task-counts').forEach(e=>e.remove());content.querySelector('[data-filter=unit]')?.closest('label')?.remove();const meta=content.querySelector('.task-context-meta span:last-child');if(meta)meta.textContent='单位：按明细分别统计';const host=document.createElement('section');host.className='card';host.id='planSheets';host.innerHTML='<h2>我的计划单</h2><p>一个周期、一处填报范围为一份计划单；客户、商品仍保留原始明细。请按整单检查后提交。</p><div class="summary-tabs">'+['全部','草稿','审核中','待修改','销售已确认'].map((s,i)=>`<button data-sheet-status="${s}" aria-pressed="${i===0}">${s}</button>`).join('')+'</div><div class="table-wrap"><table><thead><tr><th>计划单范围</th><th>周期</th><th>明细数 / 商品数</th><th>数量（按单位）</th><th>状态</th><th>检查提醒</th><th>下一步</th></tr></thead><tbody>'+gs.map((g,i)=>{const totals=new Map();g.rows.forEach(p=>totals.set(p.unit,(totals.get(p.unit)||0)+p.qty));return `<tr data-sheet-row="${i}"><td>${E(g.name)}</td><td>${g.start} 至 ${g.end}</td><td>${g.rows.length} / ${new Set(g.rows.map(p=>p.product)).size}</td><td>${[...totals].map(([u,q])=>num(q)+' '+E(u)).join('<br>')}</td><td>${state(g)}</td><td>${g.rows.filter(p=>issue(d,p).length).length} 条需检查</td><td><button data-sheet="${i}">查看计划单 / 处理</button></td></tr>`;}).join('')+' '+(!gs.length?'<tr><td colspan="7" class="empty">本期暂无计划单，请新增计划。</td></tr>':'')+'</tbody></table></div>';content.append(host);host.querySelectorAll('[data-sheet-status]').forEach(b=>b.onclick=()=>{host.querySelectorAll('[data-sheet-status]').forEach(t=>t.setAttribute('aria-pressed',String(t===b)));host.querySelectorAll('[data-sheet-row]').forEach(tr=>tr.hidden=b.dataset.sheetStatus!=='全部'&&state(gs[Number(tr.dataset.sheetRow)])!==b.dataset.sheetStatus);});host.querySelectorAll('[data-sheet]').forEach(b=>b.onclick=()=>openSheet(a,gs[Number(b.dataset.sheet)]));}

diff --git a/09-设计与原型/销售计划管理/销售计划数据.js b/09-设计与原型/销售计划管理/销售计划数据.js
@@ -46,10 +46,12 @@
   function upgradeCustomerDemo(d){if(d.customerGrainVersion===1)return false;for(const p of d.plans){if(p.business==='offline'&&!p.customer&&(p.demo||['PM001','PM002'].includes(p.id))){p.customer=customers.find(c=>c.province===p.province)?.name||'';p.history.push({at:new Date().toISOString(),by:'演示数据',action:'演示案例补充客户维度',customer:p.customer});}}for(const a of d.adjustments){const p=d.plans.find(p=>p.id===a.plan);if(a.id.startsWith('DEMO-')&&p?.customer){if(a.beforeContent)a.beforeContent.customer=p.customer;if(a.afterContent)a.afterContent.customer=p.customer;}}d.customerGrainVersion=1;return true;}
   function save(d){localStorage.setItem(KEY,JSON.stringify(d));}
   function chain(p){return p.business==='online'?['丹总']:['大区审核','中心审核','严总'];}
-  function match(p,o){return p.business===o.business&&p.product===o.product&&p.unit===o.unit&&o.date>=p.start&&o.date<=p.end&&(p.business==='online'?p.channel===o.channel:(p.center===o.center&&p.area===o.area&&p.province===o.province&&p.customer===o.customer));}
-  function linked(d,p){return d.orders.filter(o=>{const k=o.id+':'+p.kind;return Object.hasOwn(d.manualLinks,k)?d.manualLinks[k]===p.id:match(p,o);});}
-  function actual(d,p){const list=linked(d,p);if(d.rules.overlap==='pending'||d.rules.returns==='pending'||list.some(o=>d.plans.filter(x=>x.kind===p.kind&&!x.rejected&&x.stage>=chain(x).length&&linked(d,x).some(v=>v.id===o.id)).length>1))return null;return list.reduce((s,o)=>s+(o.status==='取消'?0:o.qty)-(d.rules.returns==='net'&&o.status!=='取消'?o.returned:0),0);}
+  function orderDay(o){const raw=o.orderedAt??((o.demo||/^(OMS100[1-5]$|WDT1001$|DEMO-ORDER-)/.test(o.id))?o.date:null);if(!raw)return '';const t=String(raw);if(/^\d{4}-\d{2}-\d{2}$/.test(t)){const n=new Date(t+'T00:00:00Z');return Number.isFinite(n.getTime())&&n.toISOString().slice(0,10)===t?t:'';}const n=new Date(/[Zz]|[+-]\d{2}:?\d{2}$/.test(t)?t:t.replace(' ','T')+'+08:00');return Number.isFinite(n.getTime())?new Intl.DateTimeFormat('sv-SE',{timeZone:'Asia/Shanghai'}).format(n):'';}
+  function salesOrder(o){const platform=o.platform||o.source;return !!orderDay(o)&&(o.business==='offline'?platform==='OMS':o.business==='online'&&platform==='旺店通');}
+  function match(p,o){return salesOrder(o)&&p.business===o.business&&p.product===o.product&&p.unit===o.unit&&orderDay(o)>=p.start&&orderDay(o)<=p.end&&(p.business==='online'?p.channel===o.channel:(p.center===o.center&&p.area===o.area&&p.province===o.province&&p.customer===o.customer));}
+  function linked(d,p){return d.orders.filter(o=>{const k=o.id+':'+p.kind;return match(p,o)&&(Object.hasOwn(d.manualLinks,k)?d.manualLinks[k]===p.id:true);});}
+  function actual(d,p){const list=linked(d,p);if(!list.length||d.rules.returns==='pending'||list.some(o=>d.plans.filter(x=>x.kind===p.kind&&!x.rejected&&x.stage>=chain(x).length&&linked(d,x).some(v=>v.id===o.id)).length>1))return null;return list.reduce((s,o)=>s+(o.status==='取消'?0:o.qty)-(d.rules.returns==='net'&&o.status!=='取消'?o.returned:0),0);}
   function status(d,p){if(p.archived)return '已归档';if(p.rejected)return '已驳回';if(p.stage<0)return '草稿';return p.stage>=chain(p).length?'已确认':chain(p)[p.stage]+'中';}
   function windowState(d,kind,now=new Date()){const w=d.windows[kind];if(!w.open||!w.close)return '截止时间待配置';const n=now.getTime(),a=new Date(w.open).getTime(),b=new Date(w.close).getTime();if(n<a)return '未开始';if(n>b)return '已截止';return b-n<=86400000?'即将截止':'可填报';}
-  root.SalesPlan={KEY,centers,areas,organization,channels,owners,customers,seed,load,save,chain,match,linked,actual,status,windowState};
+  root.SalesPlan={KEY,orderDay,salesOrder,centers,areas,organization,channels,owners,customers,seed,load,save,chain,match,linked,actual,status,windowState};
 })(typeof window==='undefined'?globalThis:window);
